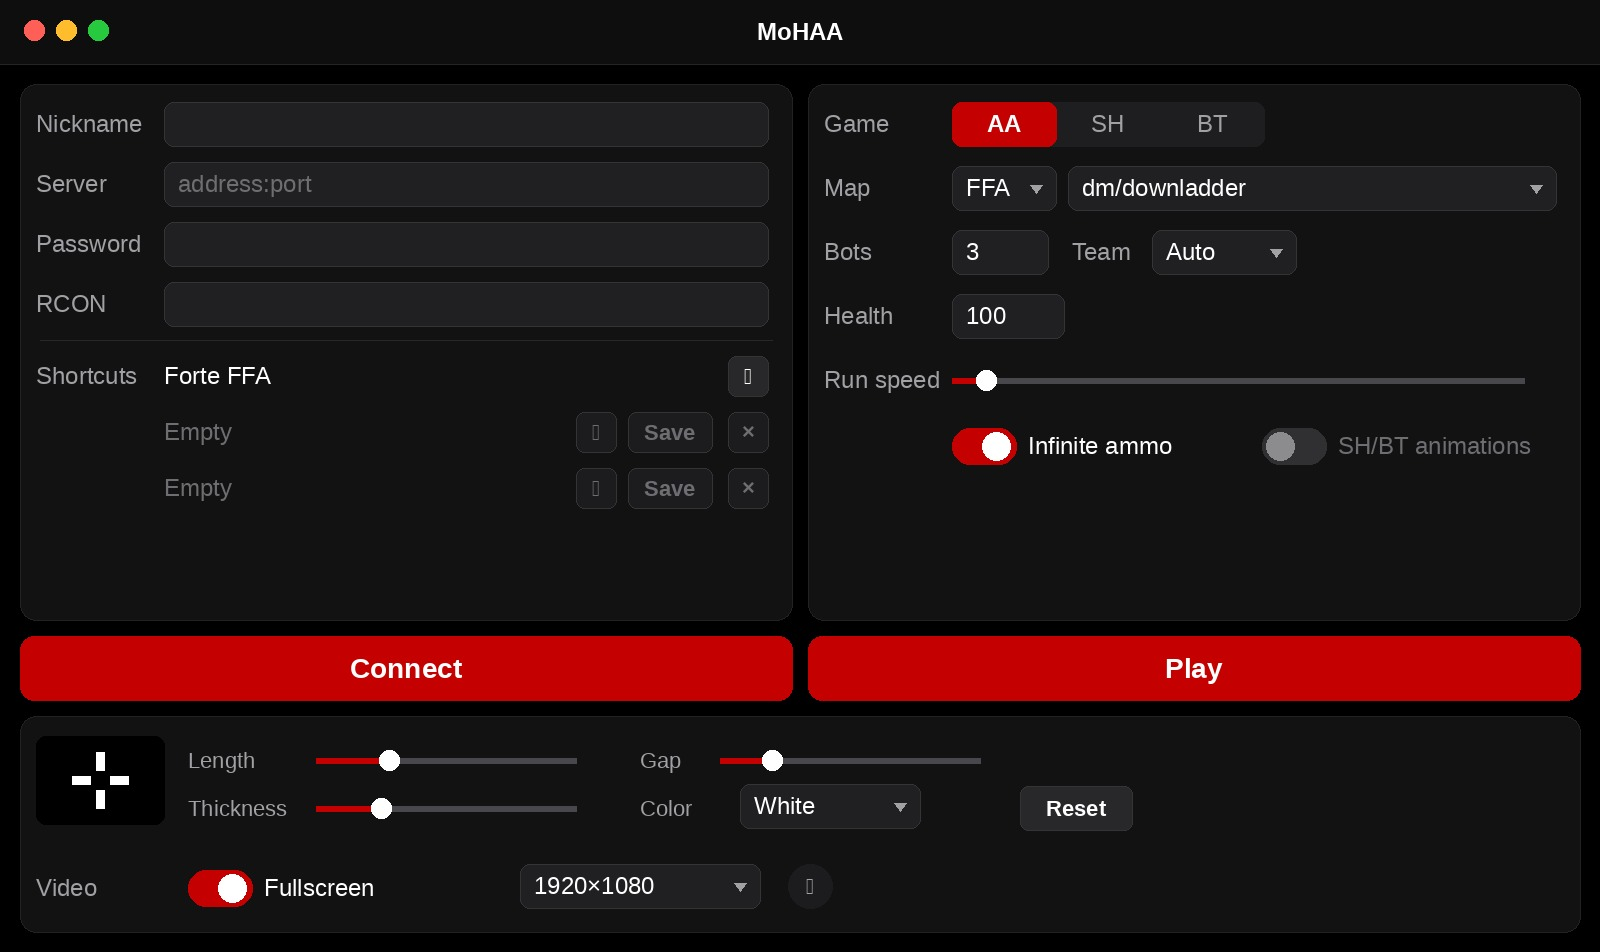
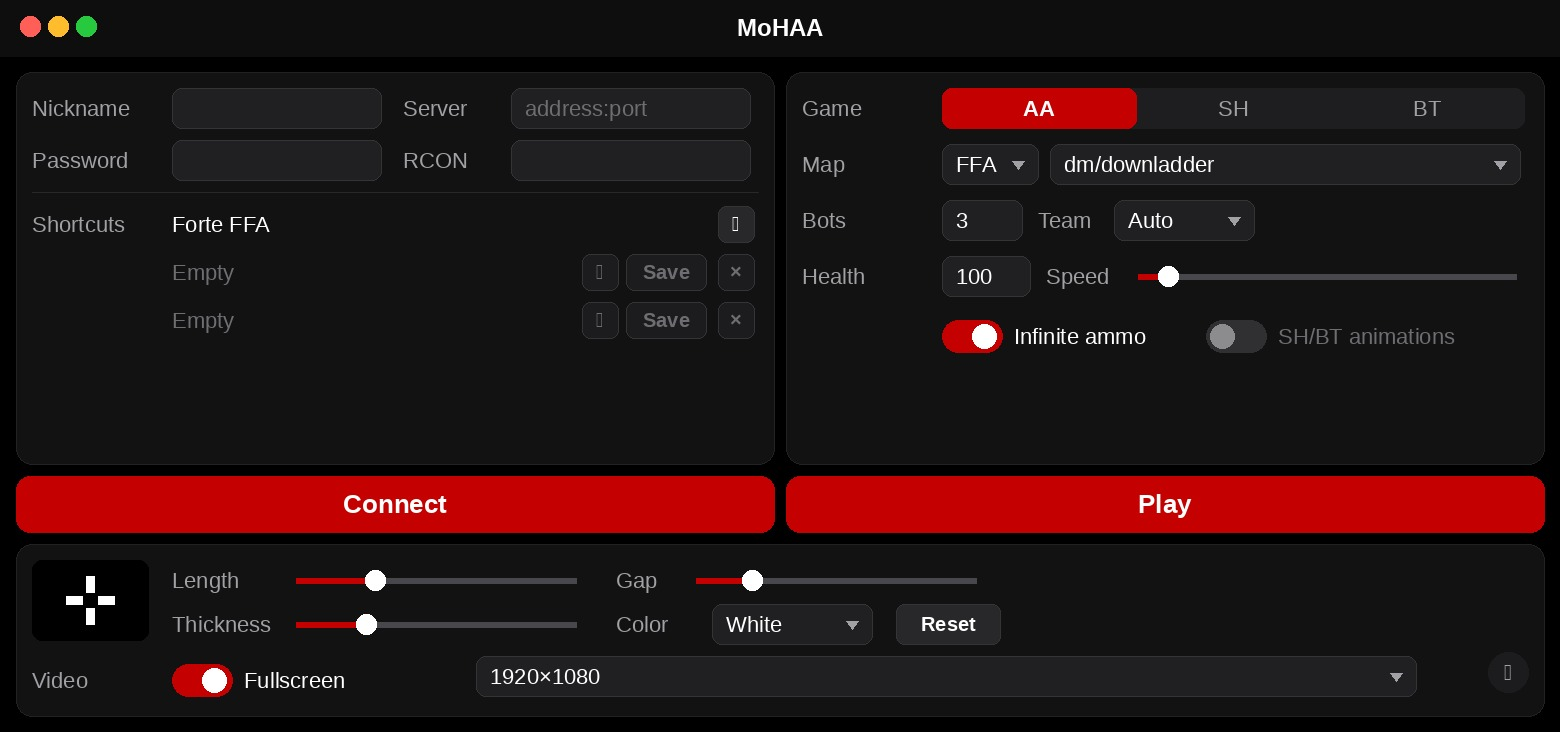
Pack the launcher rows
Server fields share rows, health sits beside the speed slider, and the
resolution menu fills the video row.

diff --git a/Launcher.swift b/Launcher.swift
@@ -502,12 +502,12 @@ struct LauncherView: View {
     @State private var checkedPaks = false
 
     var body: some View {
-        VStack(spacing: 8) {
-            HStack(alignment: .top, spacing: 8) {
+        VStack(spacing: 6) {
+            HStack(alignment: .top, spacing: 6) {
                 Card { serverRows }
                 Card { botRows }
             }
-            HStack(spacing: 8) {
+            HStack(spacing: 6) {
                 LaunchButton(title: "Connect", icon: "bolt.fill") { launch(play: false) }
                     .help("Joins the server in Allied Assault.")
                 LaunchButton(title: "Play", icon: "play.fill") { launch(play: true) }
@@ -515,7 +515,7 @@ struct LauncherView: View {
             }
             Card { crosshairRows }
         }
-        .padding(10)
+        .padding(8)
         .frame(width: 780)
         .fixedSize()
         .preferredColorScheme(.dark)
@@ -553,7 +553,7 @@ struct LauncherView: View {
                 Button { config.game = game } label: {
                     Text(games[game].0)
                         .font(.system(size: 12, weight: selected ? .semibold : .regular))
-                        .frame(width: 56)
+                    .frame(maxWidth: .infinity)
                         .padding(.vertical, 4)
                         .foregroundStyle(selected ? Color.white : Color.secondary)
                         .background(selected ? accent : Color.clear)
@@ -570,16 +570,16 @@ struct LauncherView: View {
     // MARK: Cards
 
     @ViewBuilder private var serverRows: some View {
-        Row("Nickname") {
+        HStack(spacing: 6) {
+            Text("Nickname").foregroundStyle(.secondary).frame(width: labelWidth, alignment: .trailing)
             TextField("", text: $config.name).textFieldStyle(.roundedBorder)
-        }
-        Row("Server") {
+            Text("Server").foregroundStyle(.secondary)
             TextField("address:port", text: $config.address).textFieldStyle(.roundedBorder)
         }
-        Row("Password") {
+        HStack(spacing: 6) {
+            Text("Password").foregroundStyle(.secondary).frame(width: labelWidth, alignment: .trailing)
             SecureField("", text: $config.password).textFieldStyle(.roundedBorder)
-        }
-        Row("RCON") {
+            Text("RCON").foregroundStyle(.secondary)
             SecureField("", text: $config.rcon).textFieldStyle(.roundedBorder)
         }
         Divider()
@@ -646,7 +646,6 @@ struct LauncherView: View {
         }
         Row("Bots") {
             NumberField(value: $config.bots, range: 1...maxBots, step: 1)
-            Spacer()
             Text("Team").foregroundStyle(.secondary)
             Picker("", selection: $config.botTeam) {
                 Text("Auto").tag("auto")
@@ -659,8 +658,7 @@ struct LauncherView: View {
         }
         Row("Health") {
             NumberField(value: $config.health, range: 1...1000, step: 25)
-        }
-        Row("Run speed") {
+            Text("Speed").foregroundStyle(.secondary)
             IntSlider(value: $config.runSpeed, range: Config.runSpeeds(for: config.game))
         }
         .help("Allied Assault: 250, Spearhead and Breakthrough: 287")
@@ -711,7 +709,7 @@ struct LauncherView: View {
             Picker("Resolution", selection: $config.resolution) {
                 ForEach(resolutions, id: \.self) { Text($0).tag($0) }
             }
-            .fixedSize()
+            .frame(maxWidth: .infinity)
             verifyButton
         }
     }
@@ -824,9 +822,9 @@ struct Card<Content: View>: View {
     @ViewBuilder let content: Content
 
     var body: some View {
-        VStack(alignment: .leading, spacing: 8) { content }
+        VStack(alignment: .leading, spacing: 6) { content }
         .frame(maxWidth: .infinity, alignment: .topLeading)
-        .padding(10)
+        .padding(8)
         .background(RoundedRectangle(cornerRadius: 8, style: .continuous).fill(Color.primary.opacity(0.045)))
         .overlay(
             RoundedRectangle(cornerRadius: 8, style: .continuous)
@@ -952,7 +950,7 @@ struct LaunchButton: View {
             }
             .foregroundStyle(.white)
             .frame(maxWidth: .infinity)
-            .padding(.vertical, 9)
+            .padding(.vertical, 6)
             .background(RoundedRectangle(cornerRadius: 8, style: .continuous).fill(accent))
             .contentShape(Rectangle())
         }
